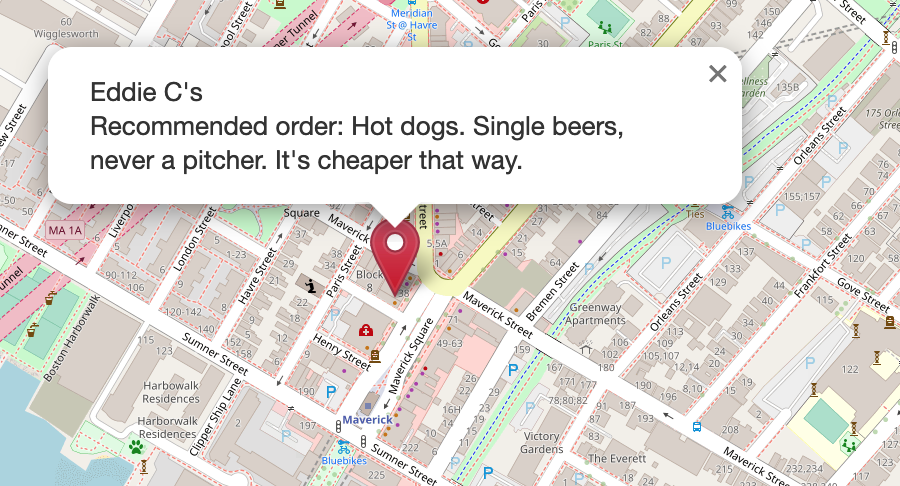
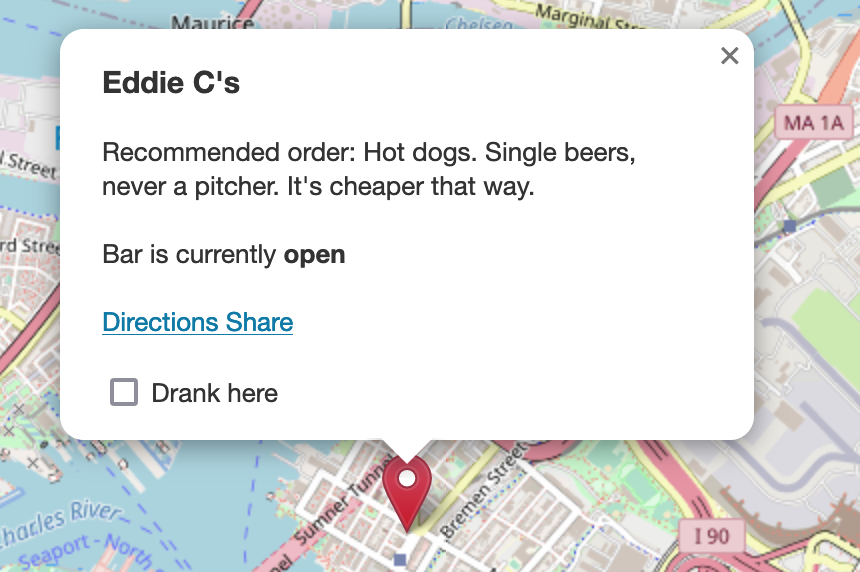
updated about page

diff --git a/about.html b/about.html
@@ -61,8 +61,8 @@
     </header>
   <body>
     <p>A website for quickly finding the best dive bars in Boston.</p>
-    <p>Thre's a couple of things to know when using the website. Yes, it needs your location to find the closest dive bar.
-      The blue icon is you and the red line shows the closest dive bar.</p>
+    <img src="./images/overview.png" style='height: 100%; width: 100%; object-fit: contain' alt="best dive bar boston">
+    <p>Tapping on the arrow icon under the zoom controls will prompt to share your location. This will automatically navigate you to the closest bar.</p>
       <img src="./images/closest.png" style='height: 100%; width: 100%; object-fit: contain' alt="closest best dive bar boston">
       <p>Bars also have notes on them for recommended orders and the cheapest bar</p>
       <img src="images/notes.png" style='height: 100%; width: 100%; object-fit: contain' alt="cheap beer at boston dive bars">
@@ -72,12 +72,17 @@
       <img src="images/drankhere.png" style='height: 100%; width: 100%; object-fit: contain' alt="cheap bars boston">
       <p>If you're on your phone an added link for directions is added for each bar and restaurant</p>
       <img src="images/directions.png" style='height: 100%; width: 100%; object-fit: contain' alt="directions to best boston dive bars">
-    <div id="contributing">
+      <h2>Stats</h2>
+      <p>The stats page is for tracking your progress drinking at all the dive bars in Boston. You can also search for bars to get directions or see where they are located on the map. The page shows how many bars you've been too and marks off bars that you have or have not been to.</p>
+      <img src="images/stats.png" style='height: 100%; width: 100%; object-fit: contain' alt="cheap bars boston">
+      <div id="contributing">
         <h2>Contributing</h2>
         <p>Everything is hosted on GitHub. If there's something that you disagree with or think that I've missed something, open up a pull request against the locations.json file.</p>
         <a href="https://github.com/superducktoes/bostondives/blob/main/locations.json">GitHub Repo</a>
     </div>
     <h2>Contact</h2>
     <p>Send me an email here: <a href='m&#97;ilto&#58;%&#54;3onta%63&#37;74&#64;bo%73&#116;%6Fndiv%&#54;5&#115;&#46;co&#109;'>&#99;&#111;ntac&#116;&#64;bost&#111;nd&#105;ves&#46;com</a></p>
+    <h2>Data Saved</h2>
+    <p>The only data that's collected is bars that are viewed, and stats from the stats page. No personal information is gathered, geo data is not saved and is only used locally on your device. The only potentially identifying information saved is IP address and browser user agent.</p>
   </body>
   </article>
